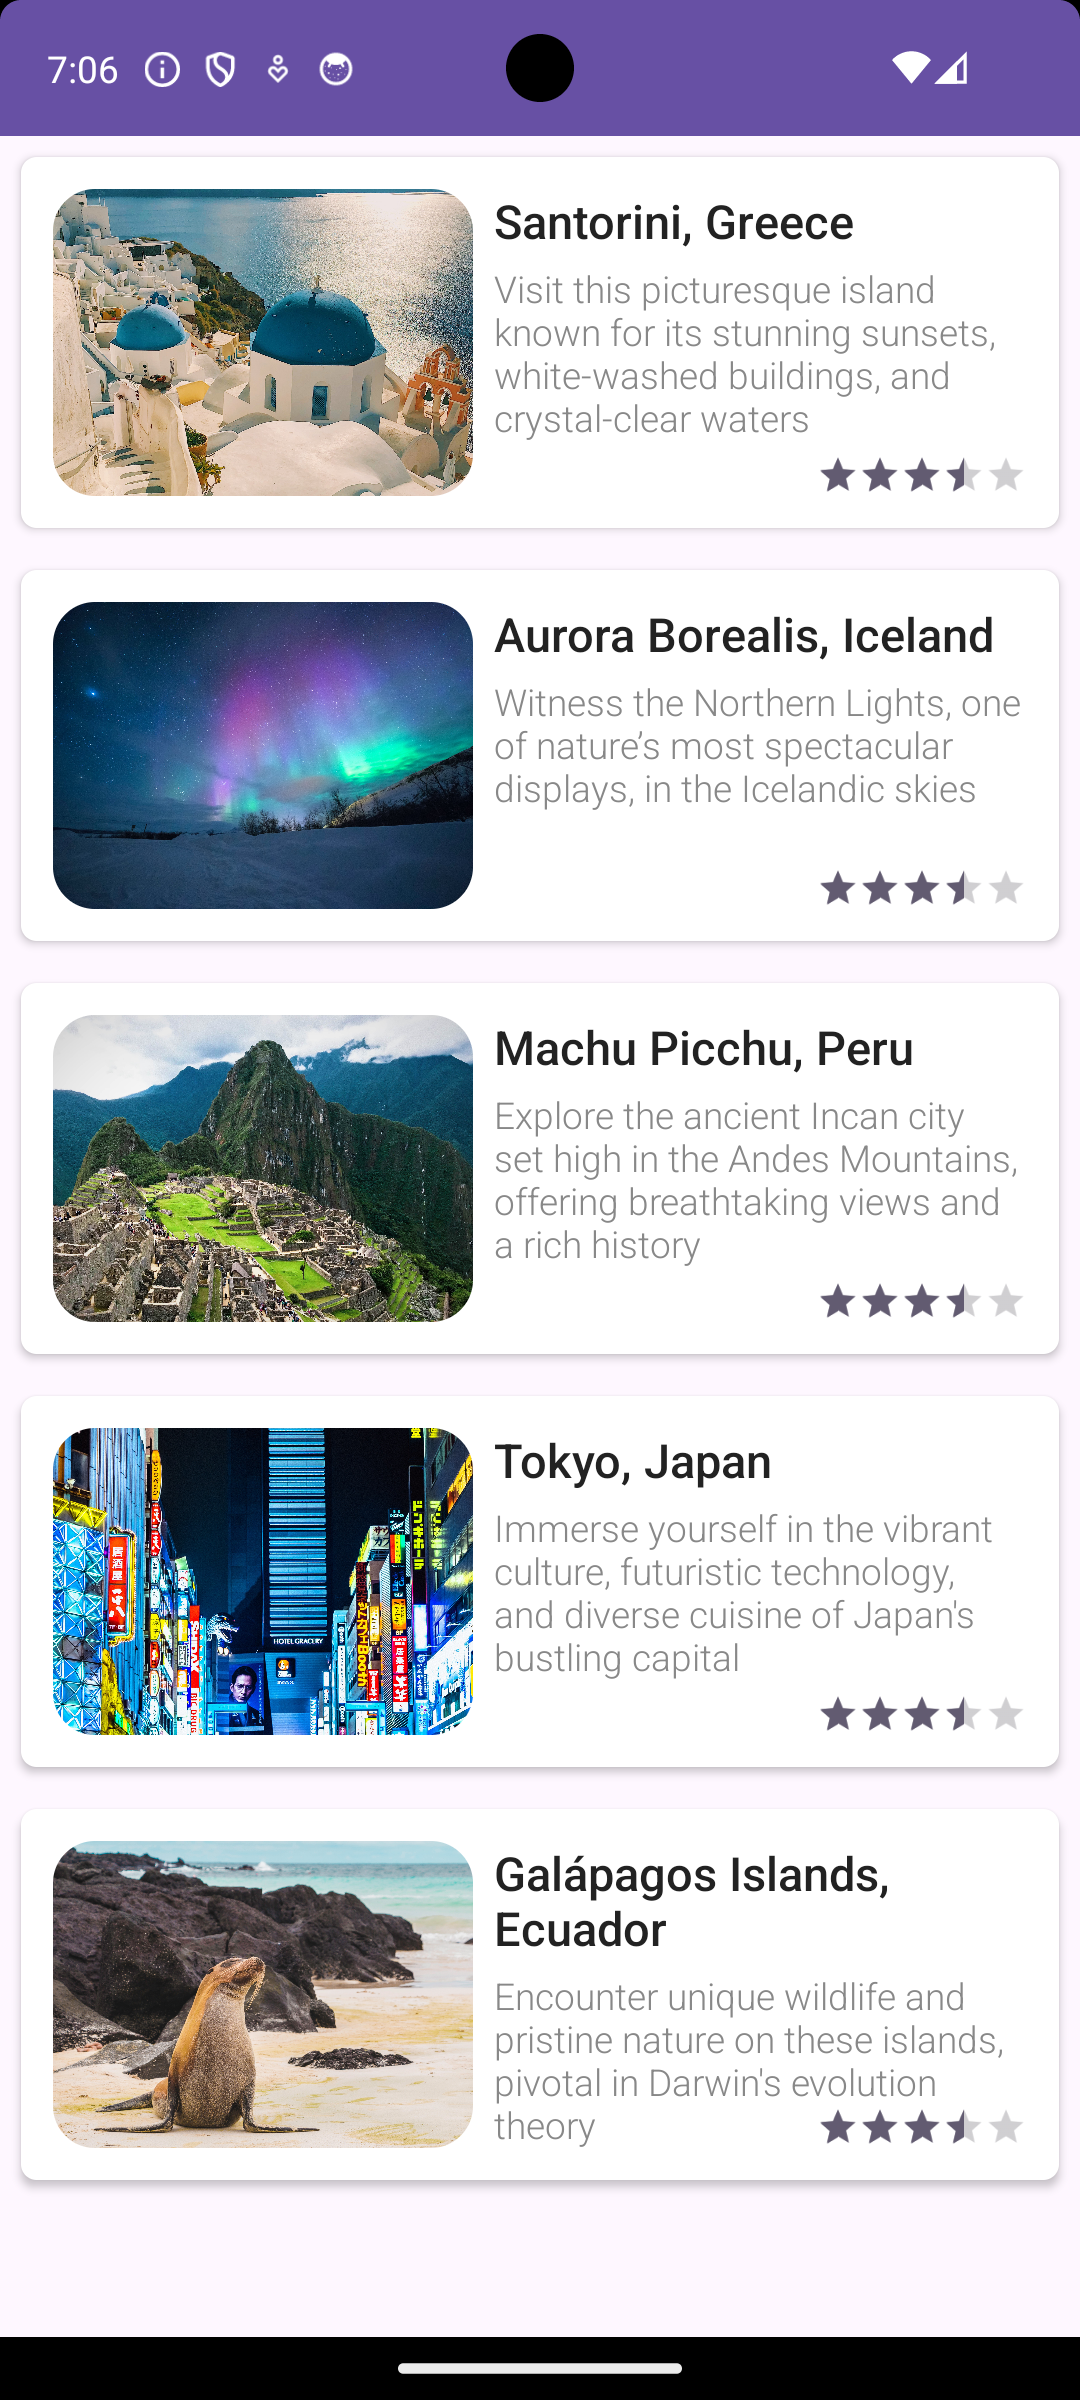
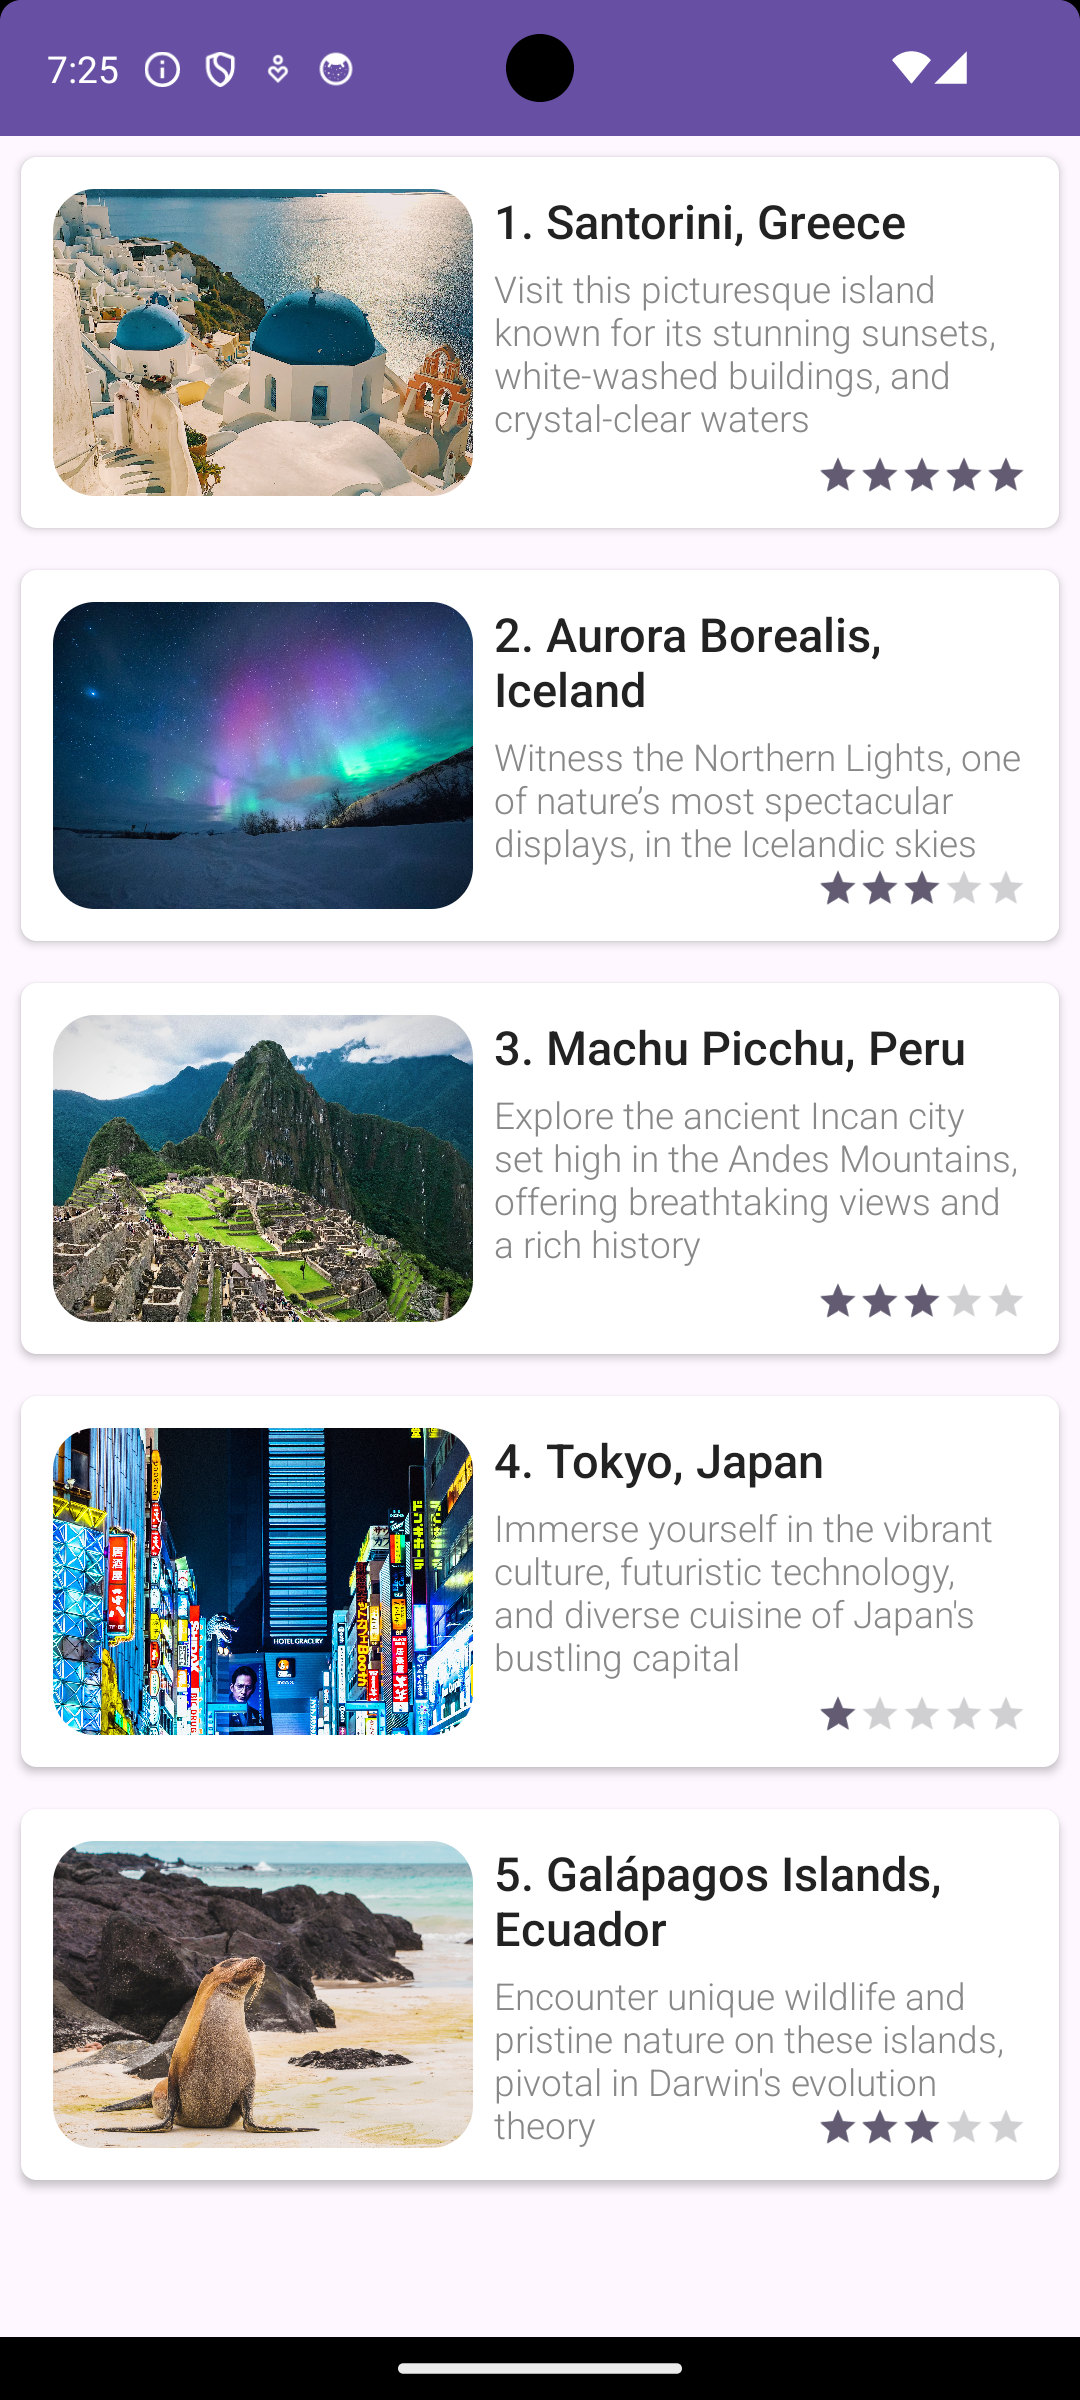
add number to item name

diff --git a/app/src/main/java/com/aswindev/bucketlistapp/PlacesToGoActivity.java b/app/src/main/java/com/aswindev/bucketlistapp/PlacesToGoActivity.java
@@ -11,15 +11,18 @@ public class PlacesToGoActivity extends AppCompatActivity {
     protected void onCreate(Bundle savedInstanceState) {
         super.onCreate(savedInstanceState);
         setContentView(R.layout.activity_places_to_go);
+        setupList();
+    }
 
+    private void setupList() {
         RecyclerView list = findViewById(R.id.recycler_view_placestogo);
 
         BucketListItem[] bucketListItems = {
-                new BucketListItem("Santorini, Greece", "Visit this picturesque island known for its stunning sunsets, white-washed buildings, and crystal-clear waters", R.drawable.santorini),
-                new BucketListItem("Aurora Borealis, Iceland", "Witness the Northern Lights, one of nature’s most spectacular displays, in the Icelandic skies", R.drawable.auroraborealis),
-                new BucketListItem("Machu Picchu, Peru", "Explore the ancient Incan city set high in the Andes Mountains, offering breathtaking views and a rich history", R.drawable.machupicchu),
-                new BucketListItem("Tokyo, Japan", "Immerse yourself in the vibrant culture, futuristic technology, and diverse cuisine of Japan's bustling capital", R.drawable.tokyo),
-                new BucketListItem("Galápagos Islands, Ecuador", "Encounter unique wildlife and pristine nature on these islands, pivotal in Darwin's evolution theory", R.drawable.gal_pagosislands)
+                new BucketListItem("Santorini, Greece", "Visit this picturesque island known for its stunning sunsets, white-washed buildings, and crystal-clear waters", R.drawable.santorini,4.8f),
+                new BucketListItem("Aurora Borealis, Iceland", "Witness the Northern Lights, one of nature’s most spectacular displays, in the Icelandic skies", R.drawable.auroraborealis, 2.8f),
+                new BucketListItem("Machu Picchu, Peru", "Explore the ancient Incan city set high in the Andes Mountains, offering breathtaking views and a rich history", R.drawable.machupicchu, 3.0f),
+                new BucketListItem("Tokyo, Japan", "Immerse yourself in the vibrant culture, futuristic technology, and diverse cuisine of Japan's bustling capital", R.drawable.tokyo, 1.2f),
+                new BucketListItem("Galápagos Islands, Ecuador", "Encounter unique wildlife and pristine nature on these islands, pivotal in Darwin's evolution theory", R.drawable.gal_pagosislands, 3.0f)
         };
         BucketListAdapter adapter = new BucketListAdapter(bucketListItems);
         list.setAdapter(adapter);

diff --git a/app/src/main/java/com/aswindev/bucketlistapp/ThingsToDoActivity.java b/app/src/main/java/com/aswindev/bucketlistapp/ThingsToDoActivity.java
@@ -11,15 +11,18 @@ public class ThingsToDoActivity extends AppCompatActivity {
     protected void onCreate(Bundle savedInstanceState) {
         super.onCreate(savedInstanceState);
         setContentView(R.layout.activity_things_to_do);
+        setupList();
+    }
 
+    private void setupList() {
         RecyclerView list = findViewById(R.id.recycler_view_thingstodo);
 
         BucketListItem[] bucketListItems = {
-                new BucketListItem("Skydiving", "Experience the thrill of free-falling from thousands of feet in the air. Ideal for adrenaline junkies", R.drawable.skydiving),
-                new BucketListItem("Learn a New Language", "Set a goal to become fluent in a new language, enhancing your communication skills and cultural understanding", R.drawable.language),
-                new BucketListItem("Run a Marathon", "Train for and complete a full marathon, a testament to physical endurance and mental perseverance", R.drawable.marathon),
-                new BucketListItem("Scuba Diving in the Great Barrier Reef", "Explore the underwater world and witness the vibrant marine life of this iconic location", R.drawable.scubadiving),
-                new BucketListItem("Write a Book", "Channel your creativity and experiences into writing a book, whether it’s a novel, memoir, or a collection of personal essays", R.drawable.writing)
+                new BucketListItem("Skydiving", "Experience the thrill of free-falling from thousands of feet in the air. Ideal for adrenaline junkies", R.drawable.skydiving, 3.8f),
+                new BucketListItem("Learn a New Language", "Set a goal to become fluent in a new language, enhancing your communication skills and cultural understanding", R.drawable.language, 2.5f),
+                new BucketListItem("Run a Marathon", "Train for and complete a full marathon, a testament to physical endurance and mental perseverance", R.drawable.marathon, 1.6f),
+                new BucketListItem("Scuba Diving in the Great Barrier Reef", "Explore the underwater world and witness the vibrant marine life of this iconic location", R.drawable.scubadiving, 1.2f),
+                new BucketListItem("Write a Book", "Channel your creativity and experiences into writing a book, whether it’s a novel, memoir, or a collection of personal essays", R.drawable.writing, 4.9f)
         };
         BucketListAdapter adapter = new BucketListAdapter(bucketListItems);
         list.setAdapter(adapter);

diff --git a/app/src/main/java/com/aswindev/bucketlistapp/BucketListAdapter.java b/app/src/main/java/com/aswindev/bucketlistapp/BucketListAdapter.java
@@ -4,13 +4,14 @@ import android.view.LayoutInflater;
 import android.view.View;
 import android.view.ViewGroup;
 import android.widget.ImageView;
+import android.widget.RatingBar;
 import android.widget.TextView;
 
 import androidx.annotation.NonNull;
 import androidx.recyclerview.widget.RecyclerView;
 
 public class BucketListAdapter extends RecyclerView.Adapter<BucketListAdapter.BucketListViewHolder> {
-    private BucketListItem[] bucketListItems;
+    private final BucketListItem[] bucketListItems;
 
     public BucketListAdapter(BucketListItem[] bucketListItems) {
         this.bucketListItems = bucketListItems;
@@ -30,25 +31,30 @@ public class BucketListAdapter extends RecyclerView.Adapter<BucketListAdapter.Bu
 
     @Override
     public void onBindViewHolder(@NonNull BucketListViewHolder holder, int position) {
-        holder.bind(bucketListItems[position]);
+        holder.bind(bucketListItems[position], position);
     }
 
 
     static class BucketListViewHolder extends RecyclerView.ViewHolder {
-        private TextView itemTitle, itemDescription;
-        private ImageView itemImage;
+        private final TextView itemTitle;
+        private final TextView itemDescription;
+        private final ImageView itemImage;
+        private final RatingBar itemRating;
 
         public BucketListViewHolder(@NonNull View itemView) {
             super(itemView);
             itemImage = itemView.findViewById(R.id.image_view_item_icon);
             itemDescription = itemView.findViewById(R.id.text_view_item_description);
             itemTitle = itemView.findViewById(R.id.text_view_item_title);
+            itemRating = itemView.findViewById(R.id.rating_bar);
         }
 
-        public void bind(BucketListItem bucketListItem) {
+        public void bind(BucketListItem bucketListItem, int position) {
             itemImage.setImageResource(bucketListItem.image);
-            itemTitle.setText(bucketListItem.name);
+            String titleStr = position + 1 + ". " + bucketListItem.name;
+            itemTitle.setText(titleStr);
             itemDescription.setText(bucketListItem.description);
+            itemRating.setRating(bucketListItem.rating);
         }
     }
 }

diff --git a/app/src/main/java/com/aswindev/bucketlistapp/BucketListItem.java b/app/src/main/java/com/aswindev/bucketlistapp/BucketListItem.java
@@ -1,12 +1,16 @@
 package com.aswindev.bucketlistapp;
 
+import androidx.annotation.DrawableRes;
+
 public class BucketListItem {
     String name, description;
     int image;
+    float rating;
 
-    public BucketListItem(String name, String description, int image) {
+    public BucketListItem(String name, String description, @DrawableRes int image, float rating) {
         this.name = name;
         this.description = description;
         this.image = image;
+        this.rating = rating;
     }
 }
